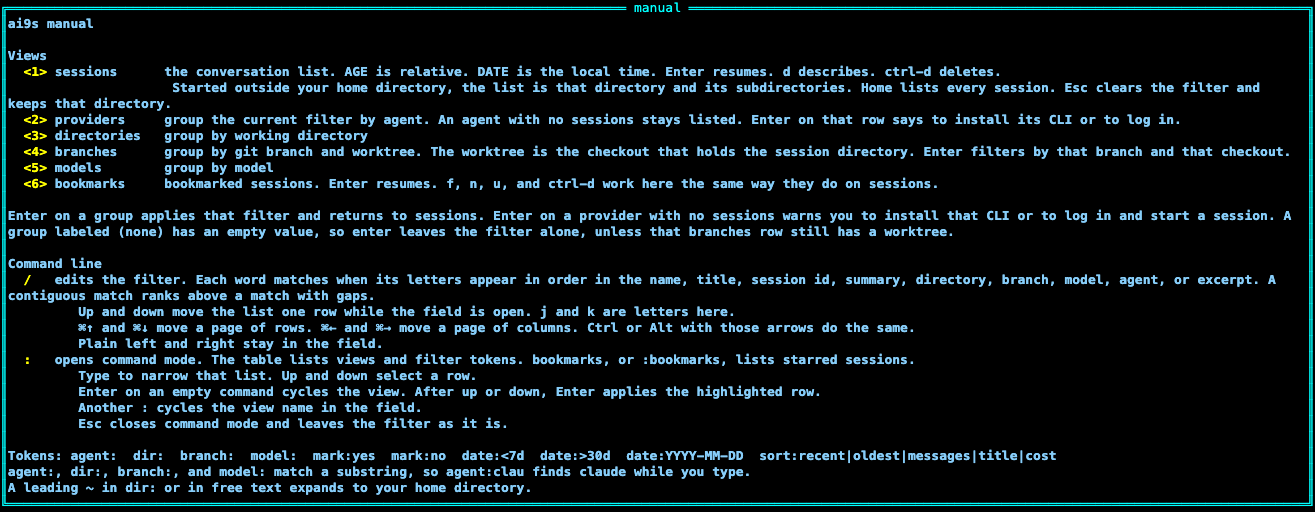
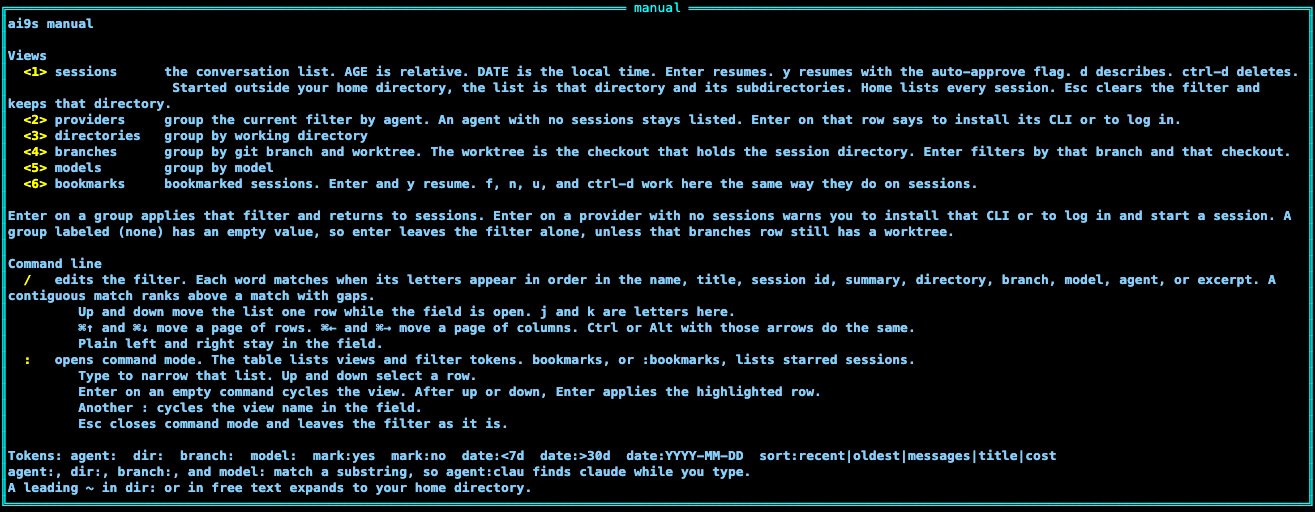
Add a y hotkey for yolo resume. (#36)
y on sessions, bookmarks, and describe resumes with that agent's auto-approve flag. The top menu shows y yolo. Agents without that flag resume the same way Enter does.

Changed region(s): [[0.2806, 0.3438, 0.7483, 0.375], [0.5924, 0.125, 0.9977, 0.1562]]

diff --git a/site/keys.html b/site/keys.html
@@ -45,6 +45,7 @@
         <tbody>
           <tr><td><code>1</code>–<code>6</code></td><td>Sessions, providers, directories, branches, models, bookmarks. Branches lists the git branch and the worktree that contains the session. <code>6</code> and <code>:bookmarks</code> list bookmarked sessions.</td></tr>
           <tr><td>Enter</td><td>Resume the selected session. Quitting that session returns to ai9s, which takes the terminal back. On a group view, apply that group as a filter and return to sessions. On a provider with no sessions, ai9s says to install that CLI or to log in and start a session.</td></tr>
+          <tr><td><code>y</code></td><td>Resume the selected session and pass that agent's auto-approve flag. The top menu shows <code>y</code> yolo on sessions and bookmarks, and on describe for those lists. Agents without that flag resume with the same command Enter uses. On a group view, <code>y</code> says to switch to sessions.</td></tr>
           <tr><td><code>j</code> / <code>k</code>, up / down</td><td>Move one line when the list or the preview is focused. Up and down do the same, including while the filter or command field is open. In the manual, <code>j</code> and <code>k</code> scroll a line. In those fields they are typed letters.</td></tr>
           <tr><td><code>g</code> / <code>G</code></td><td>Jump to the top or the end of the list, the preview, or the manual. In the filter and command fields they are typed letters.</td></tr>
           <tr><td><code>h</code> / <code>l</code>, left / right</td><td>Pan when the list or the preview is focused. In the filter and command fields, plain left and right stay in the field and these letters are typed.</td></tr>
@@ -73,7 +74,7 @@
     <p>The list is the only window until you press <code>d</code>. Describe replaces it with the preview and always shows context and token usage. <code>j</code> and <code>k</code> or up and down scroll a line. <code>h</code> and <code>l</code> or left and right pan a line that is wider than the window. ⌘↑ and ⌘↓ move a page of rows. ⌘← and ⌘→ move a page of columns. Page Up, Page Down, Ctrl-B, and Ctrl-F scroll a page of rows. <code>g</code> and <code>G</code> jump to the top or the end. Esc returns to the list. The wheel scrolls the view on screen. A horizontal wheel, or Shift with the vertical wheel, pans. Each view has a scrollbar on the right, and a bottom scrollbar when a line is wider than the window. AGE is a relative age. DATE is the local date and time. Started in a project directory, the list is sessions in that directory and its subdirectories. Started in your home directory, the list is every session. Esc clears the filter and keeps that directory. The session list has no two-letter agent column. NAME is the last column and stays whole, so the row can pan. Every other column is cut to a fixed width, and a path keeps its ending. Describe shows the full value. NAME is the name set with <code>n</code>, or the session title, or the session id when the session has no title. An empty name restores that default. The name stays through a reindex. <code>sort:title</code> sorts NAME. <code>u</code> shows that session's usage. <code>s</code> shows every session. TOKENS sits beside CTX. COST is the recorded USD amount, or a dash. A star in the first column is a bookmark. The list reindexes every 30 seconds.</p>
 
     <h2>Group views</h2>
-    <p>Providers, directories, branches, and models group the current filtered list. The branches view has a branch column and a worktree column. The worktree is the git checkout that contains the session directory, including the main checkout and a linked worktree. Enter on a branches row filters by that branch and that checkout. Enter on another group sets the matching token and returns to sessions. Enter on a provider with no sessions says to install that CLI or to log in and start a session. A row labeled <code>(none)</code> has an empty value, so Enter leaves the filter alone, unless that branches row still has a worktree. Bookmarks lists starred sessions. Resume, delete, rename, bookmark, and usage work on sessions and on bookmarks. From a group view, those keys tell you to switch back first.</p>
+    <p>Providers, directories, branches, and models group the current filtered list. The branches view has a branch column and a worktree column. The worktree is the git checkout that contains the session directory, including the main checkout and a linked worktree. Enter on a branches row filters by that branch and that checkout. Enter on another group sets the matching token and returns to sessions. Enter on a provider with no sessions says to install that CLI or to log in and start a session. A row labeled <code>(none)</code> has an empty value, so Enter leaves the filter alone, unless that branches row still has a worktree. Bookmarks lists starred sessions. Enter, <code>y</code>, delete, rename, bookmark, and usage work on sessions and on bookmarks. From a group view, those keys tell you to switch back first.</p>
 
     <h2>Example plugins</h2>
     <p>Copy a pair from <code>examples/plugins</code> into the config <code>plugins/</code> directory. After a restart, <code>e</code> opens the directory, <code>c</code> copies a reference, <code>b</code> shows git status and recent commits, and <code>t</code> opens a terminal there. Those keys appear on the menu. See <a href="config.html">Config</a>.</p>

diff --git a/site/config.html b/site/config.html
@@ -95,7 +95,7 @@
         </tbody>
       </table>
     </div>
-    <p>These shortcuts are reserved and ignored: <code>q</code>, <code>/</code>, <code>:</code>, <code>d</code>, <code>f</code>, <code>s</code>, <code>n</code>, <code>u</code>, <code>?</code>, <code>a</code>, <code>p</code>, <code>o</code>, <code>j</code>, <code>k</code>, <code>h</code>, <code>l</code>, <code>g</code>, <code>G</code>, <code>1</code>–<code>6</code>, Enter, Tab, Esc, and Ctrl-D. A repeated shortcut is ignored too. ai9s prints the reason on startup and in the header.</p>
+    <p>These shortcuts are reserved and ignored: <code>q</code>, <code>/</code>, <code>:</code>, <code>d</code>, <code>f</code>, <code>y</code>, <code>s</code>, <code>n</code>, <code>u</code>, <code>?</code>, <code>a</code>, <code>p</code>, <code>o</code>, <code>j</code>, <code>k</code>, <code>h</code>, <code>l</code>, <code>g</code>, <code>G</code>, <code>1</code>–<code>6</code>, Enter, Tab, Esc, and Ctrl-D. A repeated shortcut is ignored too. ai9s prints the reason on startup and in the header.</p>
     <p>Do not put tokens or other secrets in these files. A new <code>config.yaml</code> is mode <code>0600</code>.</p>
   </main>
   <footer class="site-footer">

diff --git a/site/commands.html b/site/commands.html
@@ -56,7 +56,7 @@ ai9s help</code></pre>
     <p><code>ai9s show claude:&lt;id&gt;</code> prints one session, including the excerpt and any recorded context or token counts. <code>--json</code> includes snippets.</p>
 
     <h2>resume</h2>
-    <p>Resume runs that agent's CLI in the session directory when the directory still exists. <code>--print</code> writes the command and does not run it. <code>--yolo</code> appends a documented auto-approve flag, and only for agents that have one. The flags are listed on the <a href="agents.html">agents</a> page.</p>
+    <p>Resume runs that agent's CLI in the session directory when the directory still exists. <code>--print</code> writes the command and does not run it. In the session list, <code>y</code> does what <code>--yolo</code> does: it appends a documented auto-approve flag, and only for agents that have one. The flags are listed on the <a href="agents.html">agents</a> page.</p>
     <pre><code>ai9s resume claude:&lt;id&gt;
 ai9s resume codex:&lt;id&gt; --print</code></pre>
 

diff --git a/site/index.html b/site/index.html
@@ -70,7 +70,7 @@ brew install ai9s</code></pre>
       </li>
       <li>Resume in the original directory
         <ul>
-          <li>Enter runs that agent's own CLI. <code>--yolo</code> adds an approval flag only when the agent documents one.</li>
+          <li>Enter runs that agent's own CLI. <code>y</code> on the top menu, and <code>resume --yolo</code>, add an approval flag only when the agent documents one.</li>
         </ul>
       </li>
       <li>Delete only when one file, one directory, or one CLI call is enough

diff --git a/site/agents.html b/site/agents.html
@@ -58,7 +58,7 @@
     </div>
 
     <h2>Yolo</h2>
-    <p><code>ai9s resume --yolo</code> adds a flag only when the agent documents one:</p>
+    <p><code>y</code> on a session, and <code>ai9s resume --yolo</code>, add a flag only when the agent documents one:</p>
     <ul>
       <li>Claude and Antigravity: <code>--dangerously-skip-permissions</code></li>
       <li>Grok: <code>--always-approve</code></li>

diff --git a/internal/tui/manual.go b/internal/tui/manual.go
@@ -97,13 +97,13 @@ func (ui *ui) scrollManual(delta int) {
 const manualText = `[::b]ai9s manual[-]
 
 [::b]Views[-]
-  [yellow]<1>[-] sessions      the conversation list. AGE is relative. DATE is the local time. Enter resumes. d describes. ctrl-d deletes.
+  [yellow]<1>[-] sessions      the conversation list. AGE is relative. DATE is the local time. Enter resumes. y resumes with the auto-approve flag. d describes. ctrl-d deletes.
                      Started outside your home directory, the list is that directory and its subdirectories. Home lists every session. Esc clears the filter and keeps that directory.
   [yellow]<2>[-] providers     group the current filter by agent. An agent with no sessions stays listed. Enter on that row says to install its CLI or to log in.
   [yellow]<3>[-] directories   group by working directory
   [yellow]<4>[-] branches      group by git branch and worktree. The worktree is the checkout that holds the session directory. Enter filters by that branch and that checkout.
   [yellow]<5>[-] models        group by model
-  [yellow]<6>[-] bookmarks     bookmarked sessions. Enter resumes. f, n, u, and ctrl-d work here the same way they do on sessions.
+  [yellow]<6>[-] bookmarks     bookmarked sessions. Enter and y resume. f, n, u, and ctrl-d work here the same way they do on sessions.
 
 Enter on a group applies that filter and returns to sessions. Enter on a provider with no sessions warns you to install that CLI or to log in and start a session. A group labeled (none) has an empty value, so enter leaves the filter alone, unless that branches row still has a worktree.
 
@@ -127,6 +127,7 @@ Esc in describe returns to the list and leaves the filter. Esc after you open se
 
 [::b]Other keys[-]
   enter       resume in the session directory. Quitting the agent returns here. On a group, apply that filter
+  y           resume the same way, and pass that agent's auto-approve flag. The top menu shows y yolo on sessions and bookmarks. Describe uses it too. On a group, y says to switch to sessions
   d           describe. The list is replaced by the preview. j/k or up/down scroll a line, h/l or left/right pan, ⌘↑/⌘↓ and ⌘←/⌘→ page, g/G jump
   esc         from describe, return to the list. From a drilled-in list, return to that group. On a group, or on sessions, clear the filter
   ctrl-d      delete, after confirmation. Sessions and bookmarks. d does not delete
@@ -160,6 +161,7 @@ A horizontal wheel pans. Shift with the vertical wheel pans the same way. Drag a
 
 [::b]Resume[-]
 Resume runs that agent's own CLI in the session directory when the directory still exists.
+Enter leaves the agent's permission prompts on. y passes the auto-approve flag when that agent documents one. Codex, Gemini, OpenCode, OpenClaw, Jules, Goose, Aider, Kimi, and MiniMax resume with the same command either way.
 Quitting the agent returns to this list. ai9s takes the terminal back, so the shell does not leave it suspended. The index refreshes so the session you just left is current.
   claude --resume
   codex resume

diff --git a/internal/tui/tui_test.go b/internal/tui/tui_test.go
@@ -312,7 +312,7 @@ func TestEscapeReturnsToDrilledView(t *testing.T) {
 	}
 	header := ui.header.GetText(true)
 	info := ui.info.GetText(true)
-	if strings.Contains(info, "claude") || strings.Contains(header, "yolo") || strings.Contains(header, "pgup") {
+	if strings.Contains(info, "claude") || !strings.Contains(header, "<y>") || !strings.Contains(header, "yolo") || strings.Contains(header, "pgup") {
 		t.Fatalf("chrome info %q header %q", info, header)
 	}
 	if !strings.Contains(ui.lines[0], "AGE") || !strings.Contains(ui.lines[0], "DATE") || !strings.Contains(ui.lines[0], "TOKENS") {
@@ -457,6 +457,52 @@ func TestEnterPlansResumeWithoutAScreen(t *testing.T) {
 	send(ui.table, tcell.NewEventKey(tcell.KeyEnter, 0, tcell.ModNone))
 	if ui.pending == nil || len(ui.pending.Args) < 2 || ui.pending.Args[0] != "--resume" || ui.pending.Args[1] != "one" {
 		t.Fatalf("pending %#v", ui.pending)
+	}
+	menu, _ := ui.menuText()
+	if !strings.Contains(menu, "<y>") || !strings.Contains(menu, "yolo") {
+		t.Fatalf("menu %s", menu)
+	}
+
+	ui.pending = nil
+	send(ui.table, tcell.NewEventKey(tcell.KeyRune, 'y', tcell.ModNone))
+	if ui.pending == nil || len(ui.pending.Args) < 3 || ui.pending.Args[0] != "--dangerously-skip-permissions" || ui.pending.Args[1] != "--resume" || ui.pending.Args[2] != "one" {
+		t.Fatalf("yolo %#v", ui.pending)
+	}
+
+	kimi := model.Session{
+		ID: "kimi:k1", NativeID: "k1", Agent: "kimi", Title: "k1",
+		CWD: sess.CWD, Updated: sess.Updated,
+		SourcePath: path, CanDelete: true, DeleteMode: "kimi",
+	}
+	if err := st.Apply("kimi", []model.Session{kimi}, []store.Source{{Path: path, Mtime: 1}}); err != nil {
+		t.Fatal(err)
+	}
+	ui.reload()
+	kimiRow := -1
+	for i, row := range ui.rows {
+		if row.ID == "kimi:k1" {
+			kimiRow = i + 1
+		}
+	}
+	if kimiRow < 1 {
+		t.Fatal("kimi row missing")
+	}
+	ui.table.Select(kimiRow, 0)
+	ui.pending = nil
+	send(ui.table, tcell.NewEventKey(tcell.KeyRune, 'y', tcell.ModNone))
+	if ui.pending == nil || strings.Join(ui.pending.Args, " ") != "--session k1" {
+		t.Fatalf("kimi yolo %#v", ui.pending)
+	}
+
+	ui.pending = nil
+	ui.setView(viewProviders)
+	send(ui.table, tcell.NewEventKey(tcell.KeyRune, 'y', tcell.ModNone))
+	if ui.pending != nil {
+		t.Fatalf("group yolo %#v", ui.pending)
+	}
+	groupMenu, _ := ui.menuText()
+	if strings.Contains(groupMenu, "yolo") {
+		t.Fatalf("group menu %s", groupMenu)
 	}
 }
 

diff --git a/internal/tui/tui.go b/internal/tui/tui.go
@@ -403,7 +403,7 @@ func (ui *ui) closeDescribe() {
 func (ui *ui) previewDone(key tcell.Key) {
 	if key == tcell.KeyEnter {
 		ui.closeDescribe()
-		ui.resumeSelected()
+		ui.resumeSelected(false)
 		return
 	}
 	ui.closeDescribe()
@@ -418,7 +418,7 @@ func (ui *ui) tableKeys(ev *tcell.EventKey) *tcell.EventKey {
 	}
 	switch ev.Key() {
 	case tcell.KeyEnter:
-		ui.resumeSelected()
+		ui.resumeSelected(false)
 		return nil
 	case tcell.KeyCtrlD:
 		ui.confirmDelete()
@@ -480,6 +480,8 @@ func (ui *ui) tableKeys(ev *tcell.EventKey) *tcell.EventKey {
 		ui.openDescribe()
 	case 'f':
 		ui.toggleBookmark()
+	case 'y':
+		ui.resumeSelected(true)
 	case 'a':
 		ui.cycleAgent()
 	case 'o':
@@ -598,6 +600,10 @@ func (ui *ui) previewKeys(ev *tcell.EventKey) *tcell.EventKey {
 			return nil
 		case 'f':
 			ui.toggleBookmark()
+			return nil
+		case 'y':
+			ui.closeDescribe()
+			ui.resumeSelected(true)
 			return nil
 		case '1', '2', '3', '4', '5', '6':
 			if spec, ok := viewByKey(string(ev.Rune())); ok {
@@ -812,8 +818,12 @@ func (ui *ui) selected() (model.Session, bool) {
 	return full, true
 }
 
-func (ui *ui) resumeSelected() {
+func (ui *ui) resumeSelected(yolo bool) {
 	if !ui.onSessions() {
+		if yolo {
+			ui.alert("Switch to sessions before resuming.")
+			return
+		}
 		ui.activateGroup()
 		return
 	}
@@ -821,7 +831,7 @@ func (ui *ui) resumeSelected() {
 	if !ok {
 		return
 	}
-	cmd, err := act.Plan(s, false)
+	cmd, err := act.Plan(s, yolo)
 	if err != nil {
 		ui.alert(err.Error())
 		return

diff --git a/internal/tui/menu.go b/internal/tui/menu.go
@@ -133,7 +133,7 @@ func (ui *ui) actionHints(keyColor, fg string) []menuHint {
 	}
 	switch ui.focused {
 	case "preview":
-		return []menuHint{
+		return withYolo([]menuHint{
 			item("j/k ↑/↓", "line"),
 			item("h/l ←/→", "pan"),
 			item("⌘↑/⌘↓", "page"),
@@ -148,7 +148,7 @@ func (ui *ui) actionHints(keyColor, fg string) []menuHint {
 			item("s", "stats"),
 			item("?", "manual"),
 			item("q", "quit"),
-		}
+		}, item, ui.onSessions())
 	case "filter":
 		return []menuHint{
 			item("↑/↓", "select"),
@@ -173,7 +173,7 @@ func (ui *ui) actionHints(keyColor, fg string) []menuHint {
 		if !ui.onSessions() {
 			enter = "filter"
 		}
-		return []menuHint{
+		return withYolo([]menuHint{
 			item("/", "filter"),
 			item(":", "command"),
 			item("d", "describe"),
@@ -195,8 +195,23 @@ func (ui *ui) actionHints(keyColor, fg string) []menuHint {
 			item("s", "stats"),
 			item("?", "manual"),
 			item("q", "quit"),
+		}, item, ui.onSessions())
+	}
+}
+
+// withYolo places y next to enter on views that list sessions.
+func withYolo(items []menuHint, item func(k, label string) menuHint, on bool) []menuHint {
+	if !on {
+		return items
+	}
+	out := make([]menuHint, 0, len(items)+1)
+	for _, h := range items {
+		out = append(out, h)
+		if h.key == "enter" {
+			out = append(out, item("y", "yolo"))
 		}
 	}
+	return out
 }
 
 // pluginMenu is every plugin the current view accepts. Command mode hides

diff --git a/internal/config/config_test.go b/internal/config/config_test.go
@@ -128,7 +128,7 @@ func TestBookmarksScopeMatchesSessions(t *testing.T) {
 }
 
 func TestBlockedShortcuts(t *testing.T) {
-	if !Blocked("ctrl-d") || !Blocked("G") || !Blocked("shift-g") || !Blocked("h") || !Blocked("l") || !Blocked("n") || !Blocked("u") || !Blocked("f") || !Blocked("6") || Blocked("r") || Blocked("b") || Blocked("y") || Blocked("e") || Blocked("ctrl-e") || Blocked("E") {
+	if !Blocked("ctrl-d") || !Blocked("G") || !Blocked("shift-g") || !Blocked("h") || !Blocked("l") || !Blocked("n") || !Blocked("u") || !Blocked("f") || !Blocked("y") || !Blocked("6") || Blocked("r") || Blocked("b") || Blocked("e") || Blocked("ctrl-e") || Blocked("E") {
 		t.Fatal("shortcut reservation")
 	}
 	if c, ok := CanonShortcut("Shift-E"); !ok || c != "shift-e" {

diff --git a/internal/config/template.go b/internal/config/template.go
@@ -70,7 +70,7 @@ ai9s:
 
 const defaultPluginsYAML = `# Plugins run a program on the machine. They do not get a shell.
 # List them here, or put one plugin in each file under plugins/.
-# Reserved keys are ignored: q / : d f s n u ? a p o j k h l g G 1-6, enter, tab, esc, ctrl-d.
+# Reserved keys are ignored: q / : d f y s n u ? a p o j k h l g G 1-6, enter, tab, esc, ctrl-d.
 # A selected session provides $ID $NATIVE_ID $AGENT $CWD $TITLE $BRANCH $MODEL.
 # $FILTER is the filter line. $NAME is the row name.
 # scopes: sessions, bookmarks, providers, directories, branches, models, or all.

diff --git a/internal/config/plugins.go b/internal/config/plugins.go
@@ -201,7 +201,7 @@ func CanonShortcut(s string) (string, bool) {
 // Blocked reports shortcuts the UI already uses.
 func Blocked(canon string) bool {
 	switch canon {
-	case "q", "/", ":", "d", "f", "s", "n", "u", "?", "a", "p", "o", "j", "k", "h", "l", "g", "G",
+	case "q", "/", ":", "d", "f", "y", "s", "n", "u", "?", "a", "p", "o", "j", "k", "h", "l", "g", "G",
 		"1", "2", "3", "4", "5", "6",
 		"enter", "return", "tab", "backtab", "esc", "escape",
 		"ctrl-c", "ctrl-d", "shift-g":
